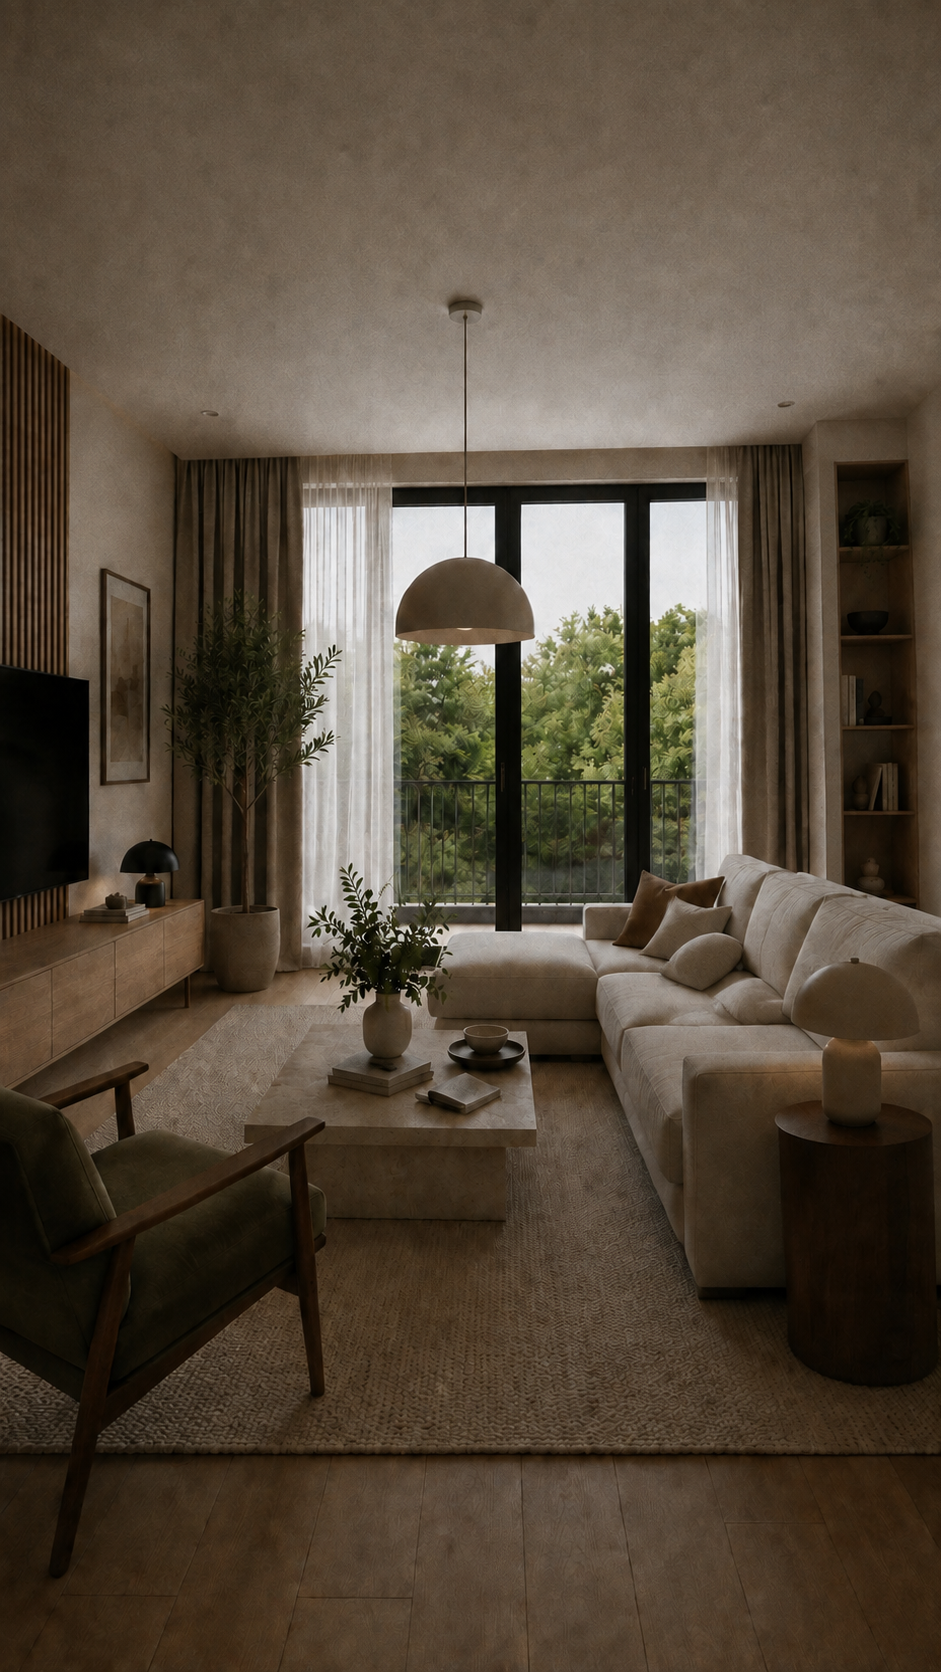
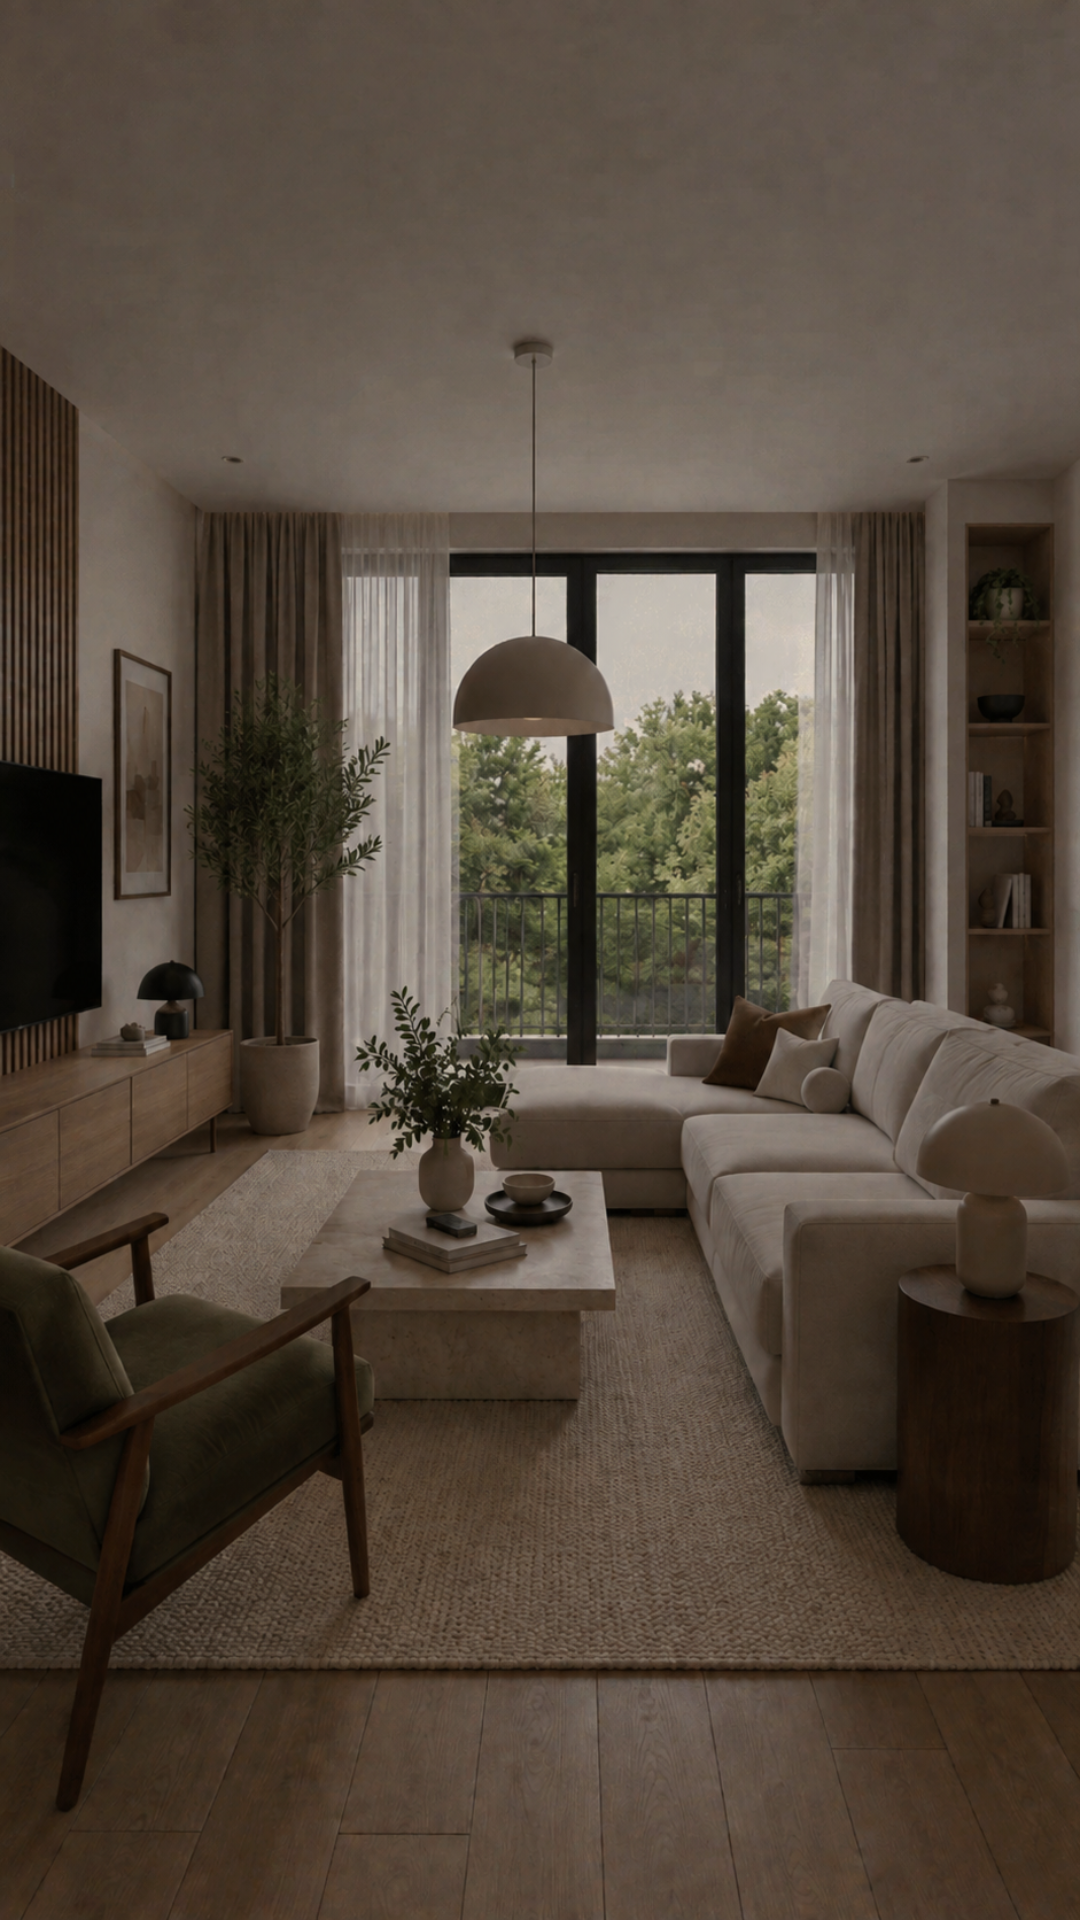
Restore the before/after slider in The problem we remove
Integrated the existing BeforeAfterSlider rather than writing a new one.
It was removed from this section two changes ago but the component was
deliberately kept, and it is already on the current icon and type tokens,
so nothing needed rebuilding.

What it does: the after image is the base layer and the before image sits
on top, clipped with clip-path inset to the divider. Dragging anywhere on
the image moves the divider via pointer capture, so a drag that leaves
the element still tracks.

Details that matter and were already handled:
- touch-action: pan-y, so a vertical swipe still scrolls the page and
  only horizontal drags move the handle.
- The handle is a real slider: role="slider" with valuemin/max/now and
  an aria-valuetext reading "50% before, 50% after". Arrow keys move it
  in 5% steps, Home and End jump to the ends.
- The before layer is aria-hidden, since it duplicates the same room,
  and its description is exposed to assistive tech through an sr-only
  span instead of a second announced image.

Layout: 9:16 inside the section's max-w-sm column, so it keeps the box
the static still occupied and the section does not move. Rounded to 2xl
with the ivory/10 hairline, and the Before and After pills use the dark
espresso and light ivory chips already in the palette.

Restored the caption too. Without it the handle is the only hint the
image does anything, and on touch there is no cursor change to notice.
[…]

diff --git a/components/sections/Spotlight.tsx b/components/sections/Spotlight.tsx
@@ -1,8 +1,8 @@
 import { ArrowRight, CalendarCheck, Inbox, ShieldCheck } from "lucide-react";
-import Image from "next/image";
 import { Container } from "@/components/ui/Container";
 import { SectionHeading } from "@/components/ui/SectionHeading";
 import { Button } from "@/components/ui/Button";
+import { BeforeAfterSlider } from "@/components/shared/BeforeAfterSlider";
 import { Reveal } from "@/components/shared/Reveal";
 
 const points = [
@@ -18,19 +18,17 @@ export function Spotlight() {
       <Container className="grid gap-14 lg:grid-cols-12 lg:items-center">
         <Reveal className="lg:col-span-7">
           <div className="mx-auto w-full max-w-sm">
-            {/* Single still, replacing the drag-to-compare slider. The frame
-                below keeps the slider's exact box (9:16, same radius and
-                hairline) so the section's layout does not move; the source is
-                941x1672, which is 9:16, so object-cover crops nothing. */}
-            <div className="relative aspect-[9/16] w-full overflow-hidden rounded-2xl border border-ivory/10">
-              <Image
-                src="/images/before.png"
-                alt="Living room interior from a property listing"
-                fill
-                sizes="(min-width: 1024px) 384px, 90vw"
-                className="object-cover"
-              />
-            </div>
+            <BeforeAfterSlider
+              before="/images/before.png"
+              after="/images/after.png"
+              beforeAlt="Listing photo before enhancement, dark and low resolution"
+              afterAlt="The same listing photo after photo correction and enhancement"
+            />
+            {/* The affordance. Without it the handle is the only hint that the
+                image does anything, and on touch there is no cursor to change. */}
+            <p className="mt-4 text-center text-fine text-ivory/60">
+              Drag to compare the same listing photo, before and after.
+            </p>
           </div>
         </Reveal>
 
